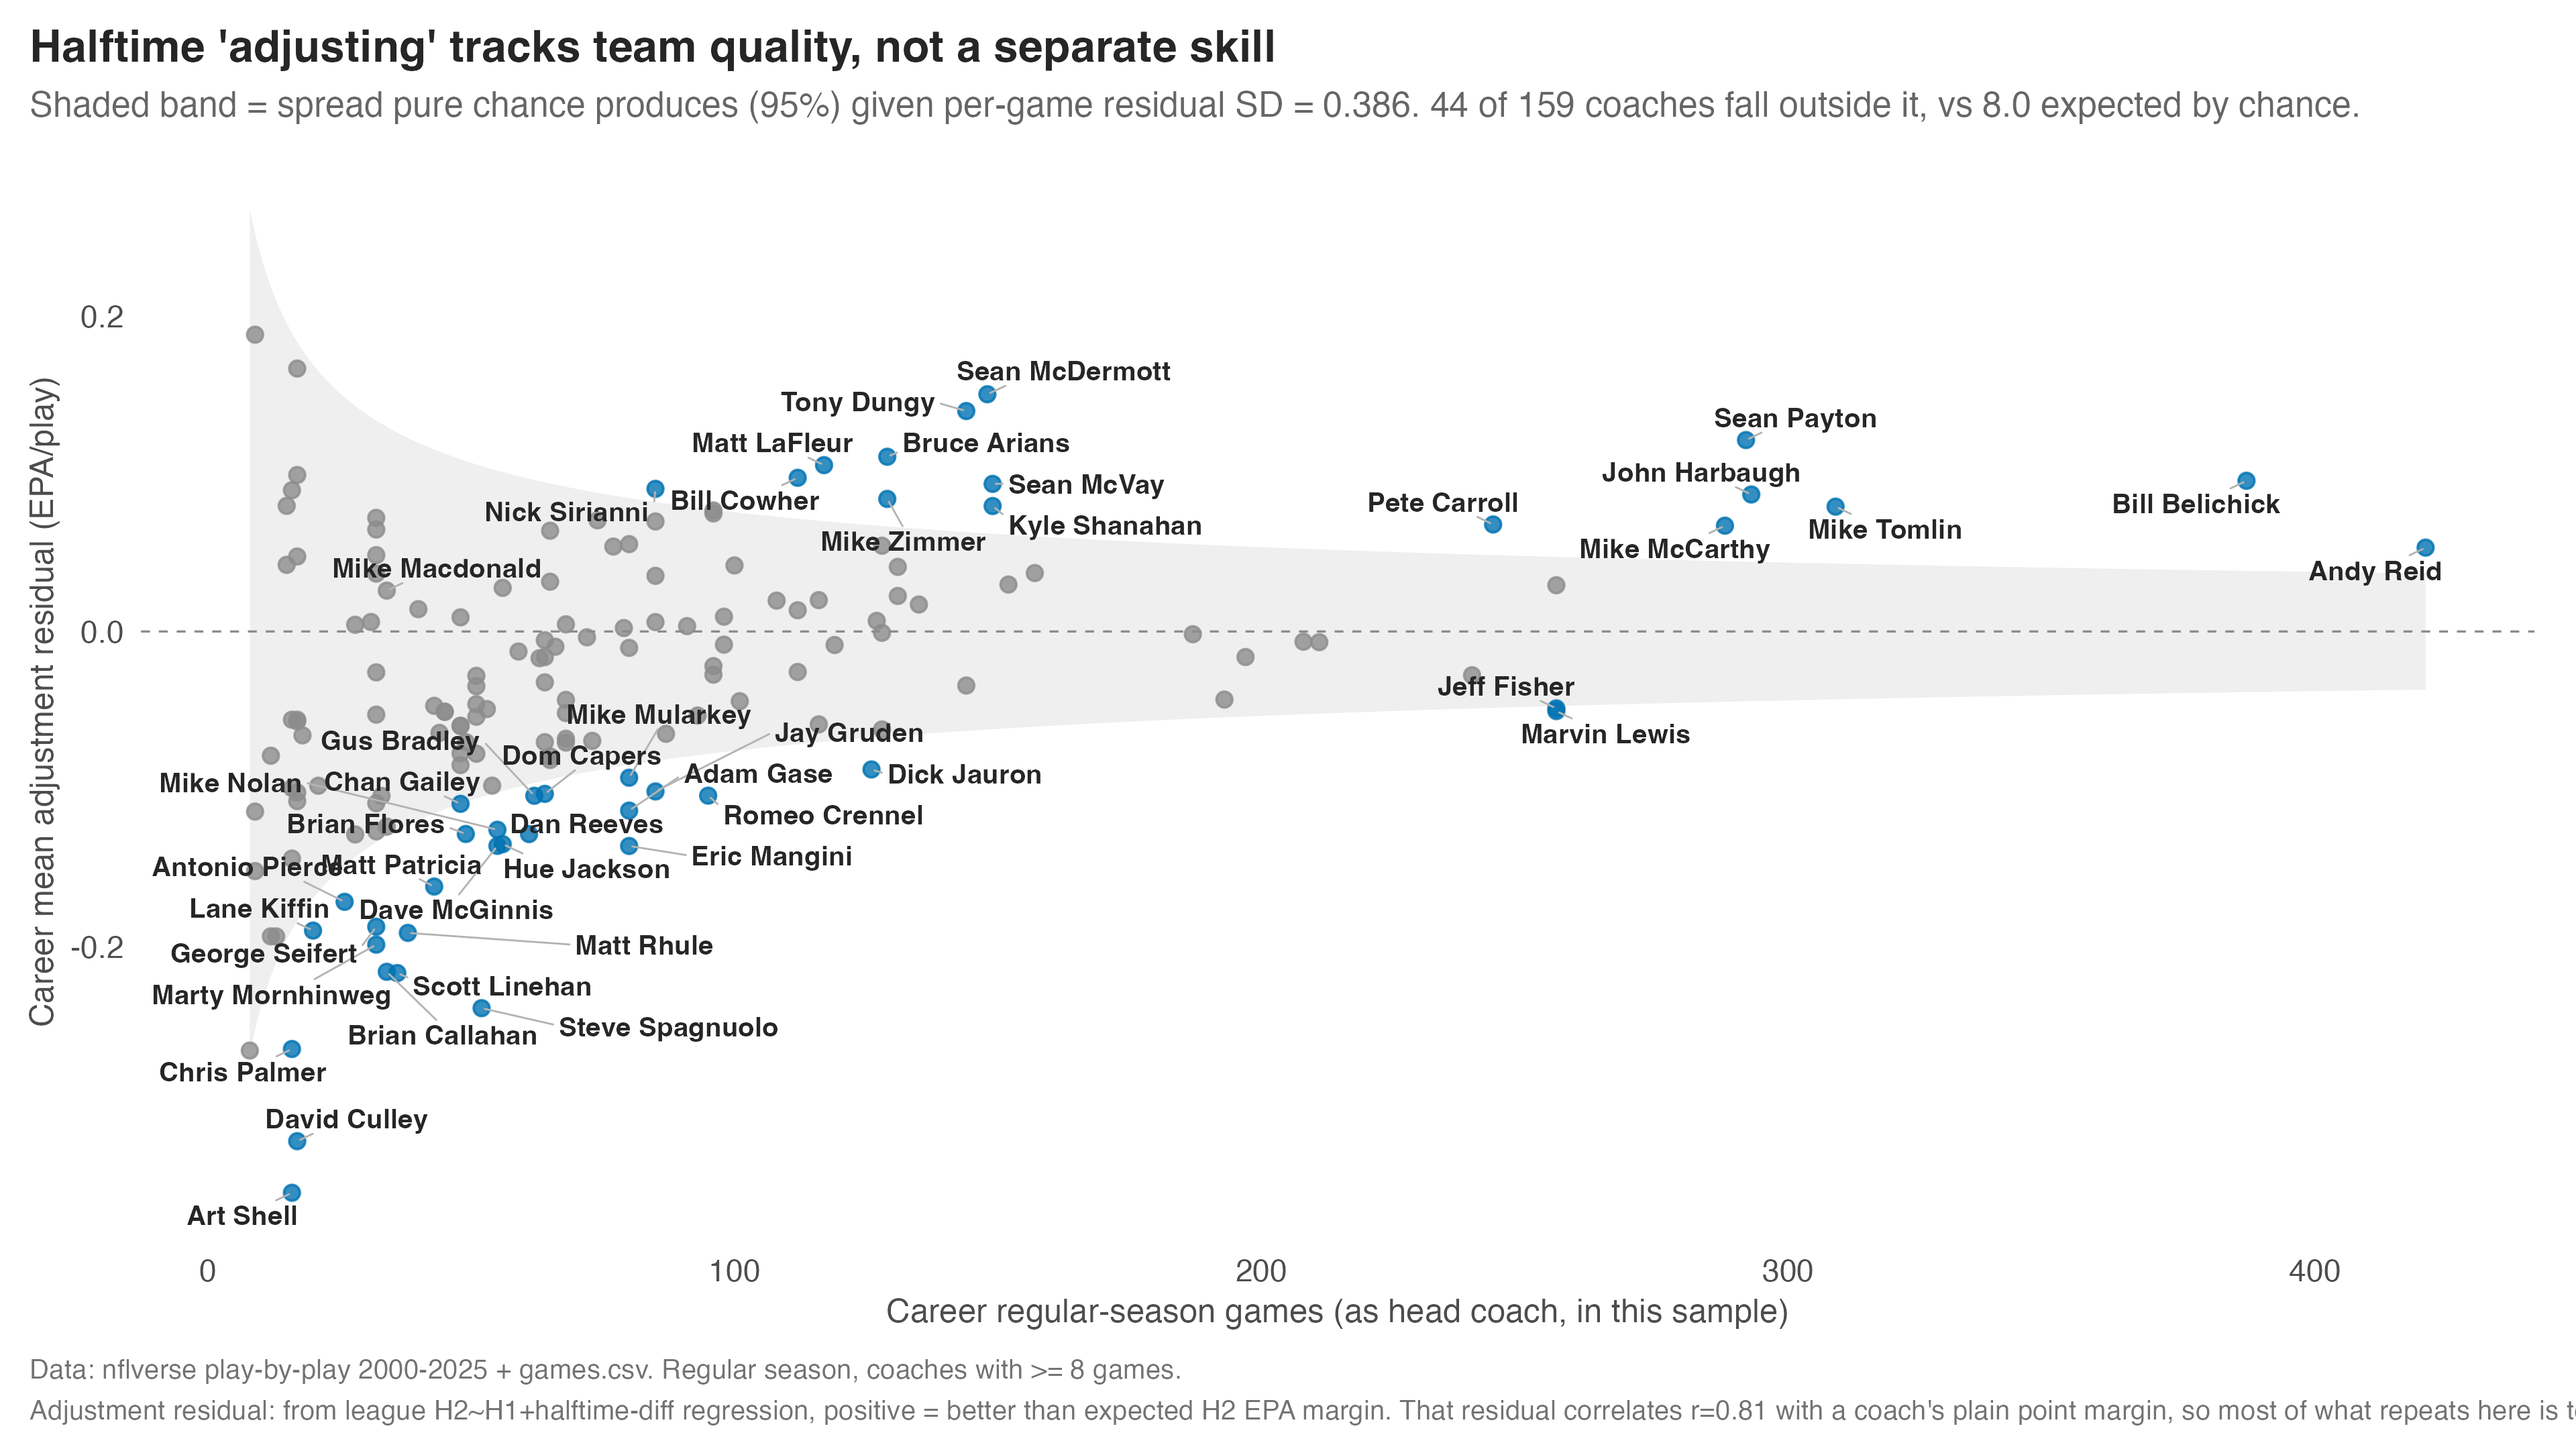
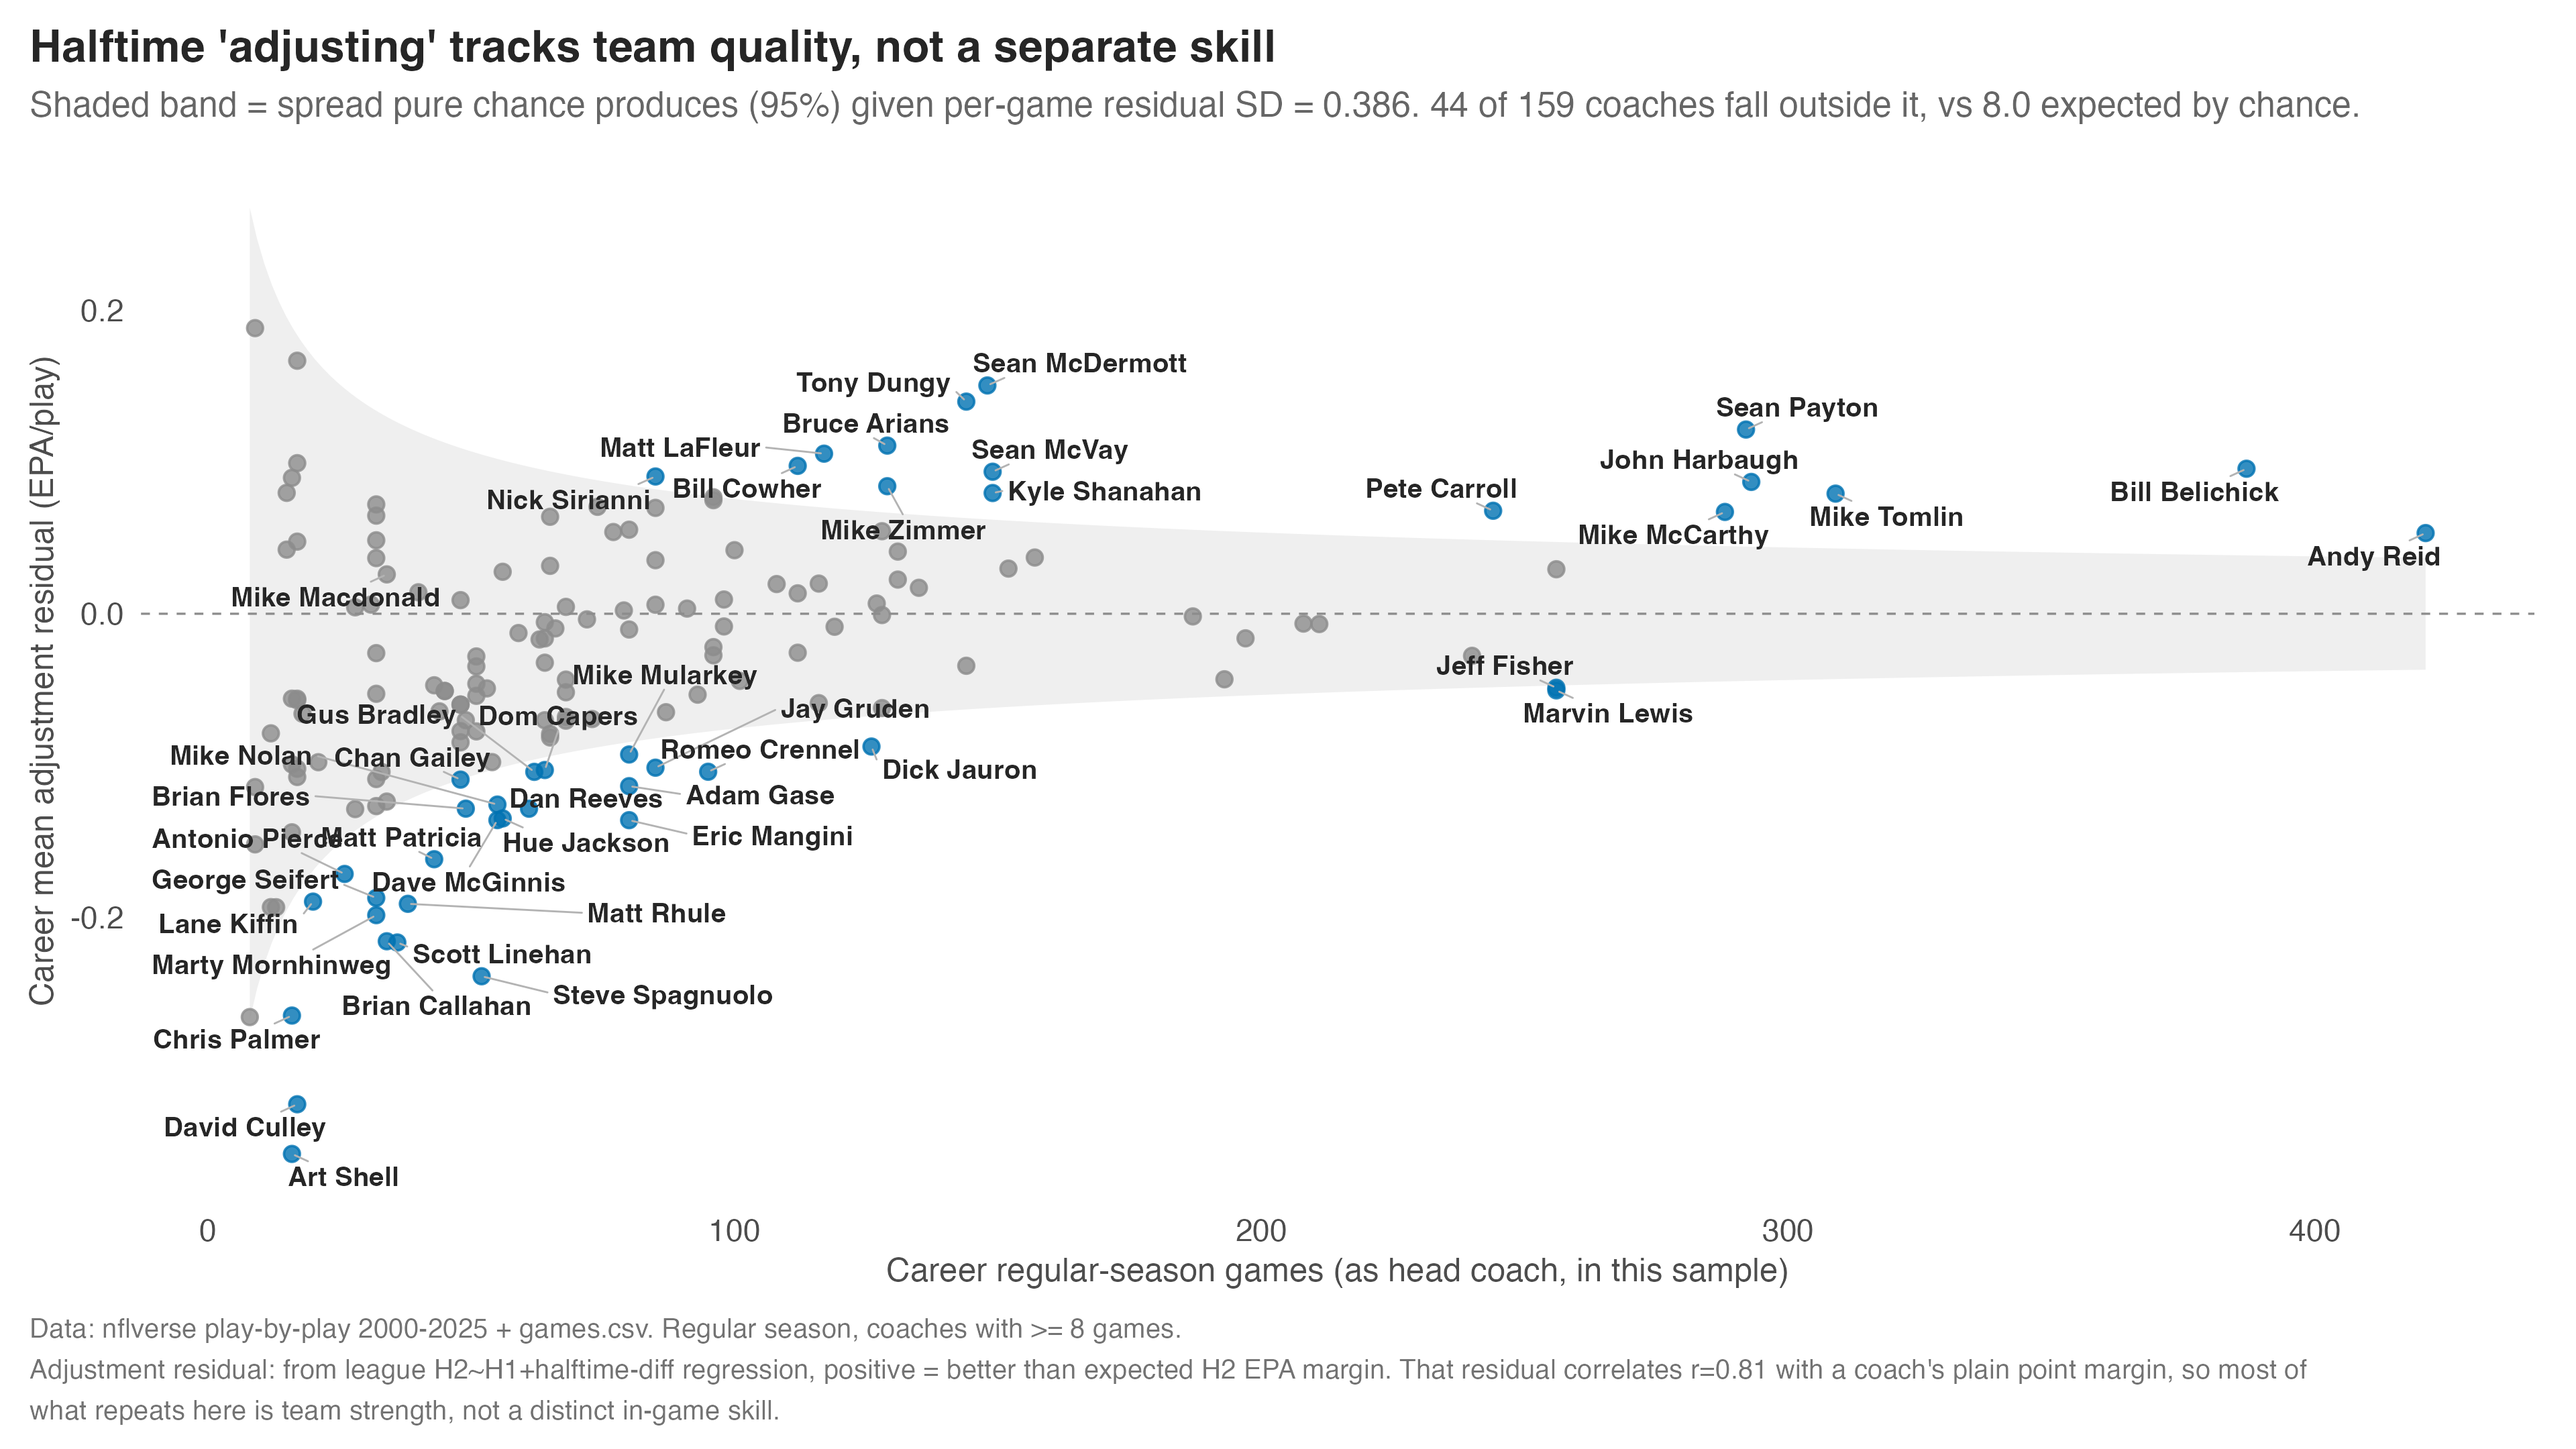
Fix Seattle 2025 rank claim: third-biggest overperformance, not second
Builder report missed Liam Coen's Jaguars at +3.85. Verified against
data/derived/market_seasons.csv.

diff --git a/docs/index.html b/docs/index.html
@@ -93,7 +93,7 @@
   <div class="prose">
     <p class="lede">You asked how anyone grades coaching. It turns out I had been quietly building the answer since July, and none of it has made it into a text until now.</p>
     <p>The short version: the parts of coaching everyone argues about are mostly measurable, and the measurements keep disagreeing with the arguments. The finding I would build the video around is that the best play-callers are more predictable, not less. Control for situation and the correlation between predictability and offensive quality flips sign. Andy Reid gets his calls guessed about three more times per hundred plays than an average caller and has run the best offense in football. The "genius" everyone imagines, the caller nobody can pin down, mostly does not exist. Ben Johnson is the one real exception, which makes him more interesting, not less.</p>
-    <p>Your Seahawks hunch also survives its first contact with data. Vegas expected 10.8 wins from the 2025 roster and schedule. They won 14. That was the second biggest overperformance in football last year, and Mike Macdonald's two-year career sits outside the range luck alone should produce. The same analysis carries a warning label, though: across 654 coach-season pairs since 1999, beating the market one season says nothing about beating it the next. The market null is real, and it is exactly why the roster-talent version of this question on the board below is the better long-term measure.</p>
+    <p>Your Seahawks hunch also survives its first contact with data. Vegas expected 10.8 wins from the 2025 roster and schedule. They won 14. Only Jacksonville and New England beat their expectations by more last year, and Mike Macdonald's two-year career sits outside the range luck alone should produce. The same analysis carries a warning label, though: across 654 coach-season pairs since 1999, beating the market one season says nothing about beating it the next. The market null is real, and it is exactly why the roster-talent version of this question on the board below is the better long-term measure.</p>
     <p>And the audience's most confident belief fails loudest. Andy Reid, the coach every fan calls a clock-management disaster, has the best large-sample record in football at not dying with timeouts in his pocket: 4 games out of 61 close losses, against a league rate of 15 percent. The actual sinners are the ones nobody jokes about. Norv Turner died holding timeouts in 11 of his 31 close losses. Mike Martz burned double the league's timeout rate every season of his career.</p>
     <p>Honesty rule carried over from the ghost town board: when a hypothesis dies, it goes on the board with the evidence. Icing the kicker shaves about three points off make probability but 26 seasons of data cannot prove it is real. Pete Carroll looked like the one coach who cracked it, and he turns out to be exactly the fluke you expect when you screen 21 coaches. "Establish the run" fails in every metric we threw at it, including the three strongest arguments for it.</p>
     <p>Everything below is one board. Each card is a line from our texts, then what the data says, then the chart that answers that exact question sitting under it. Open questions say so and name the next move.</p>
@@ -115,10 +115,10 @@
     <div class="card">
       <div class="card-head"><span class="t">The bit of magic, measured</span><span class="pill ship">He is right</span></div>
       <p class="row"><span class="lab">Michael:</span> "I'm super biased. But there is a bit of magic to what the Hawks accomplished last year. Won without an elite qb…and seemingly without a lot of elite players. Very strange"</p>
-      <p class="row found"><span class="lab">Found:</span> the magic shows up in the numbers, and it is not small. The market, which knows the roster, the schedule, and the injuries, priced the 2025 Seahawks at 10.8 wins. They won 14. Only New England beat its expectation by more last season. Whatever you felt watching them, the betting market felt it too, all year, and kept underpricing it.</p>
+      <p class="row found"><span class="lab">Found:</span> the magic shows up in the numbers, and it is not small. The market, which knows the roster, the schedule, and the injuries, priced the 2025 Seahawks at 10.8 wins. They won 14. Only two teams in football beat their expectation by more last season, Liam Coen's Jaguars and Vrabel's Patriots. Whatever you felt watching them, the betting market felt it too, all year, and kept underpricing it.</p>
       <figure>
         <img src="figures/market_2025.png" alt="Scatter of all 32 teams' 2025 actual wins against market-expected wins from closing spreads, with Seattle highlighted about three wins above its expectation.">
-        <figcaption>Actual 2025 wins against what closing spreads implied, all 32 teams. Seattle won 3.2 more games than the market expected. nflverse schedules and closing spread lines, 1999 to 2025. Built by R/02.</figcaption>
+        <figcaption>Actual 2025 wins against what closing spreads implied, all 32 teams. Seattle won 3.2 more games than the market expected, third most in football. nflverse schedules and closing spread lines, 1999 to 2025. Built by R/02.</figcaption>
       </figure>
       <p class="row"><span class="lab">The catch:</span> "beat the market" and "well coached" are not the same sentence. The spread already prices the coach, so this measures surprise, not skill. The two cards below try to separate those.</p>
     </div>

diff --git a/README.md b/README.md
@@ -20,7 +20,7 @@ the new work.
 
 | Finding | Number |
 |---|---|
-| 2025 Seahawks beat the market | 14 wins vs 10.8 expected, 2nd-biggest overperformance of 2025 |
+| 2025 Seahawks beat the market | 14 wins vs 10.8 expected, 3rd-biggest overperformance of 2025 |
 | Beating the spread is not a repeatable coach skill | r = -0.03 season-to-season, n = 654 coach-season pairs |
 | Coaches outside the market luck cone | 10 of 157, vs ~8 expected by chance |
 | Best play-callers are MORE predictable | naive r = +0.33 flips to r = -0.37 situation-controlled |
